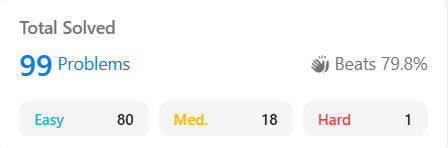
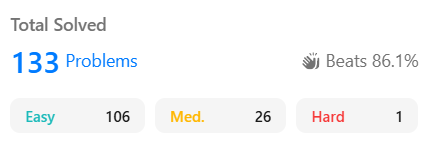
Updated leetcode img

diff --git a/src/pages/professionalExperience/professionalExperience.jsx b/src/pages/professionalExperience/professionalExperience.jsx
@@ -48,7 +48,7 @@ and provided technical guidance to interns to ensure high-quality code and smoot
                         </a>
                         <div>
                             <h3>SAM Leader @ Michigan Tech College of Computing</h3>
-                            <h4>- Spring Semester 2026</h4>
+                            <h4>- January 2026 - Present (During Academic Semesters)</h4>
                         </div>
                     </div>
                     <p>
